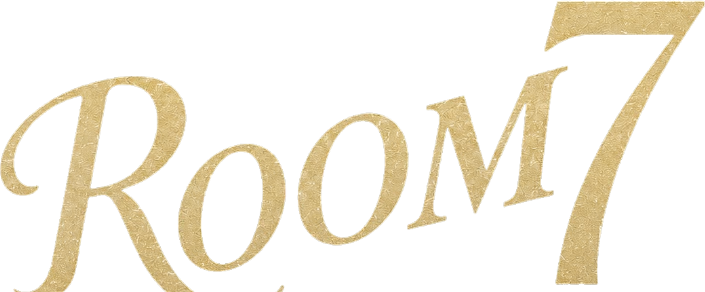
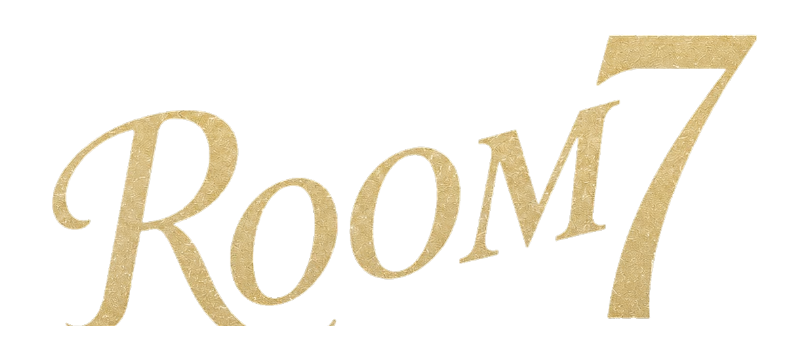
Fix cropped hero wordmark: add transparent padding to the asset
The wordmark.webp artwork sat flush against every edge (0px padding L/R/B),
so the R, the 7 and the descenders read as cropped. Re-export the asset with
transparent breathing room (52px L/R, 34px T/B → 809x360) and bump the width
cap so the glyphs stay the same size while gaining margin.

Claude-Session: https://claude.ai/code/session_01VsovetmdFJF63PxXyB5AtR

Changed region(s): [[0.0, 0.0, 1.0, 1.0], [0.4057, 0.8938, 0.4369, 0.9247], [0.3745, 0.9863, 0.4057, 1.0]]

diff --git a/components/home/Hero.tsx b/components/home/Hero.tsx
@@ -127,11 +127,11 @@ export function Hero() {
         <img
           src="/brand/wordmark.webp"
           alt="Room 7"
-          width={705}
-          height={292}
+          width={809}
+          height={360}
           fetchPriority="high"
           decoding="async"
-          className="hero-rise hero-logo w-[min(72vw,400px)] max-w-full"
+          className="hero-rise hero-logo w-[min(83vw,460px)] max-w-full"
           style={{ animationDelay: "80ms" }}
         />
 
